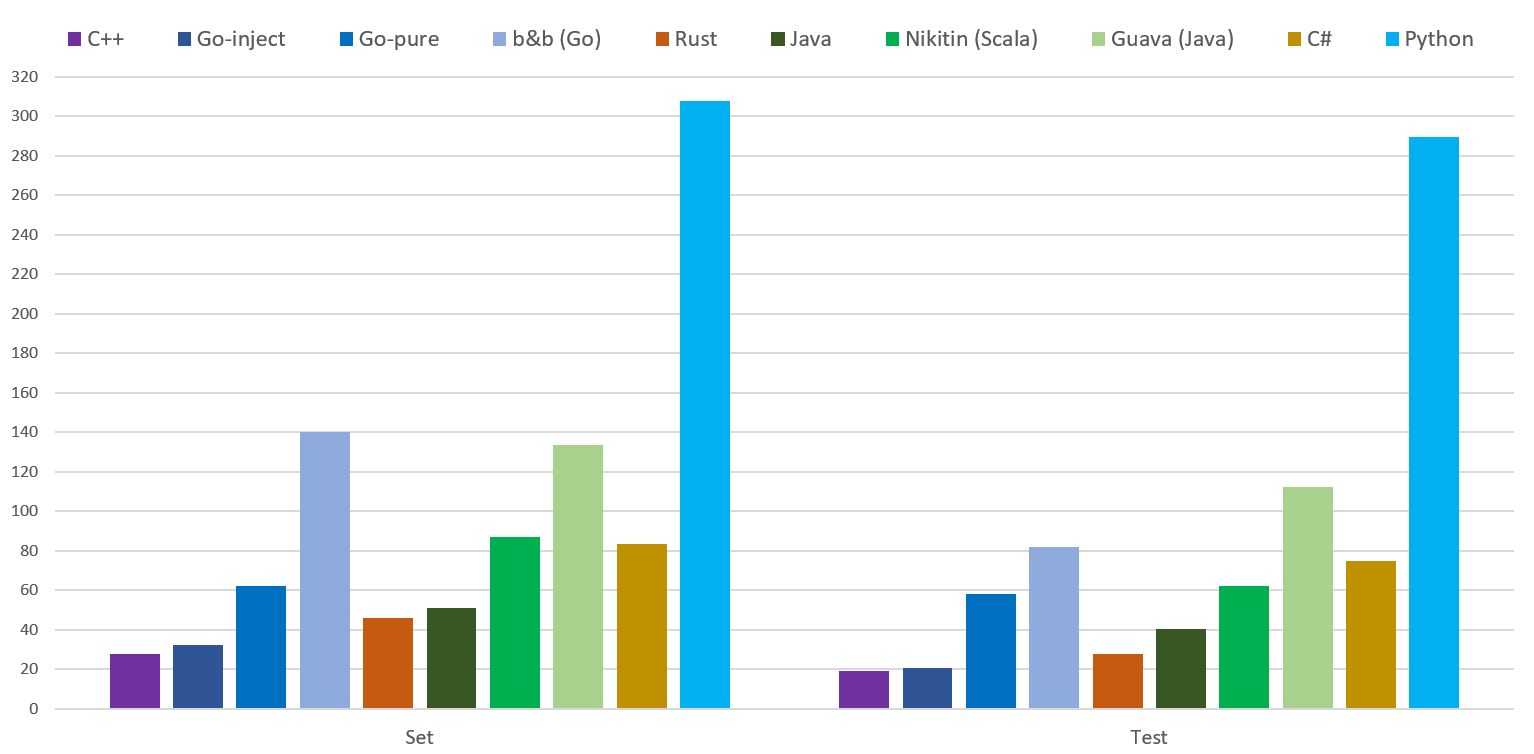
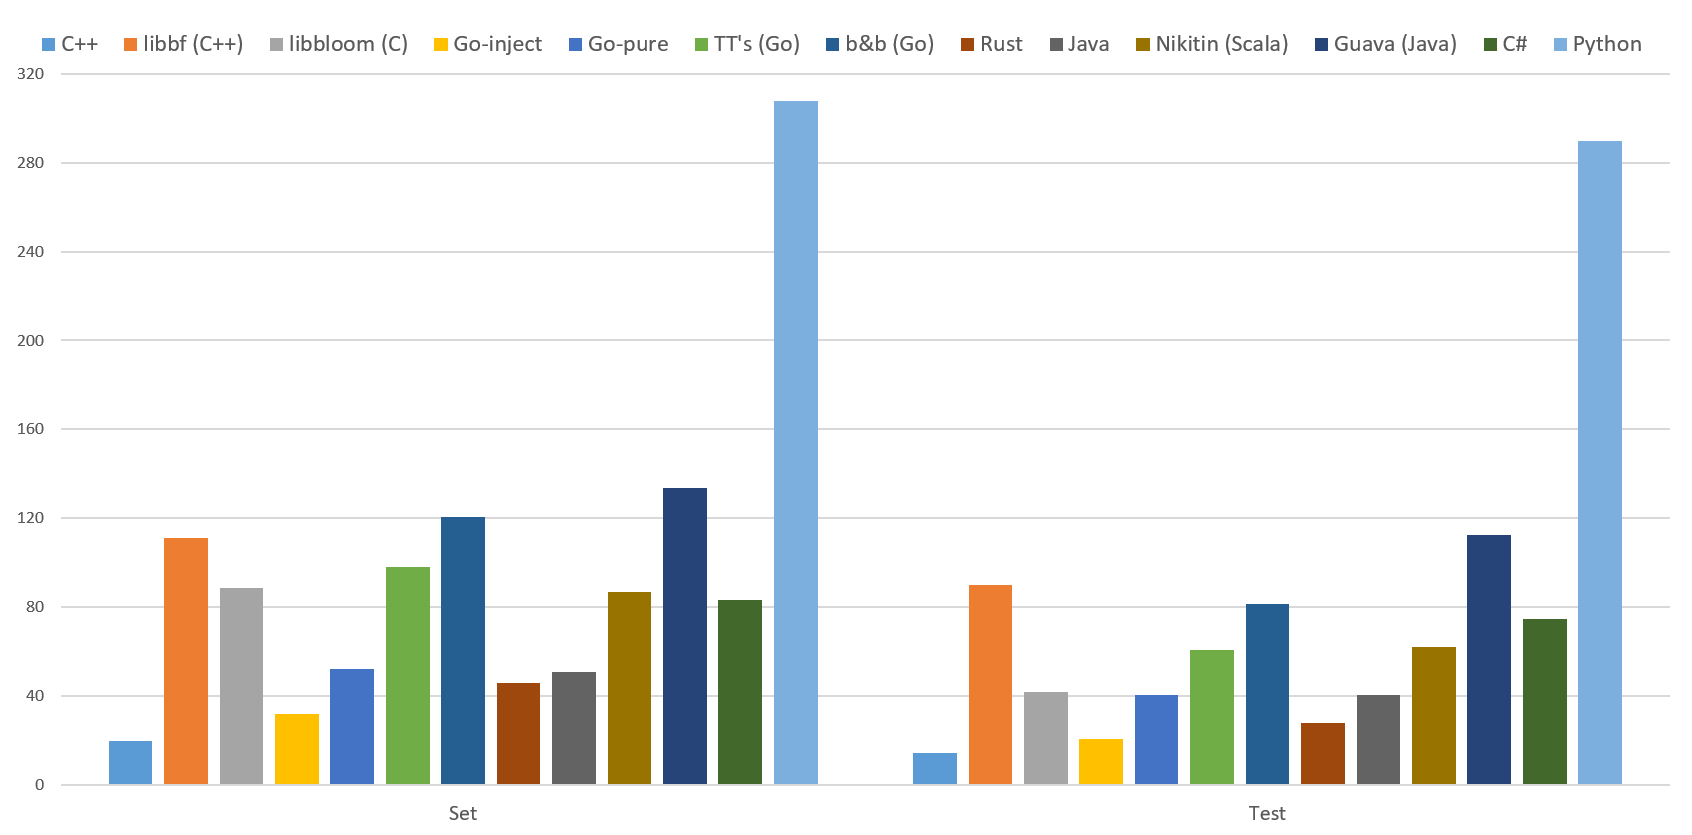
more benchmark result

diff --git a/README.md b/README.md
@@ -57,13 +57,15 @@ Test8  44.8ns ± 2%  18.4ns ± 7%  -58.86%  (p=0.000 n=19+20)
 
 We suggest that user should execute [go-inject.sh](pbf/go-inject.sh) to gnerate new injecting code before build. Clang, binutils and python are needed.
 
-[Benchmark](https://gist.github.com/PeterRK/b0df9e80caaaee1e9349e295cb435a67) shows it runs 3x time faster than another famous bloom filter implement [bits-and-blooms](https://github.com/bits-and-blooms/bloom):
+[Benchmark](https://gist.github.com/PeterRK/b0df9e80caaaee1e9349e295cb435a67) shows it runs 2x time faster than other famous bloom filter implements, [bits-and-blooms](https://github.com/bits-and-blooms/bloom) and [Tyler Treat's](https://github.com/tylertreat/BoomFilters):
 ```
 cpu: Intel(R) Core(TM) i7-10710U CPU @ 1.10GHz
-BenchmarkBitsAndBloomSet-6               1000000               140.0 ns/op
-BenchmarkBitsAndBloomTest-6              1000000                81.68 ns/op
-BenchmarkPageBloomFilterSet-6            1000000                32.12 ns/op
-BenchmarkPageBloomFilterTest-6           1000000                20.58 ns/op
+BenchmarkPageBloomFilterSet-6            1000000                32.70 ns/op
+BenchmarkPageBloomFilterTest-6           1000000                20.23 ns/op
+BenchmarkBitsAndBloomSet-6               1000000               120.5  ns/op
+BenchmarkBitsAndBloomTest-6              1000000                81.46 ns/op
+BenchmarkTylerTreatSet-6                 1000000                98.30 ns/op
+BenchmarkTylerTreatTest-6                1000000                60.69 ns/op
 ```
 
 ## Java Version

diff --git a/README-CN.md b/README-CN.md
@@ -57,13 +57,15 @@ Test8  44.8ns ± 2%  18.4ns ± 7%  -58.86%  (p=0.000 n=19+20)
 
 AMD64环境中注入版默认开启，编译前最好先执行[go-inject.sh](pbf/go-inject.sh)生成新的注入函数。注入函数生成脚本依赖clang和binutils，以及python，建议在Linux环境执行。
 
-[测评](https://gist.github.com/PeterRK/b0df9e80caaaee1e9349e295cb435a67) 表明本实现比知名的 [bits-and-blooms](https://github.com/bits-and-blooms/bloom)要快3倍：
+[测评](https://gist.github.com/PeterRK/b0df9e80caaaee1e9349e295cb435a67) 表明本实现比知名的 [bits-and-blooms](https://github.com/bits-and-blooms/bloom)和[Tyler Treat版](https://github.com/tylertreat/BoomFilters)要快2倍：
 ```
 cpu: Intel(R) Core(TM) i7-10710U CPU @ 1.10GHz
-BenchmarkBitsAndBloomSet-6               1000000               140.0 ns/op
-BenchmarkBitsAndBloomTest-6              1000000                81.68 ns/op
-BenchmarkPageBloomFilterSet-6            1000000                32.12 ns/op
-BenchmarkPageBloomFilterTest-6           1000000                20.58 ns/op
+BenchmarkPageBloomFilterSet-6            1000000                32.70 ns/op
+BenchmarkPageBloomFilterTest-6           1000000                20.23 ns/op
+BenchmarkBitsAndBloomSet-6               1000000               120.5  ns/op
+BenchmarkBitsAndBloomTest-6              1000000                81.46 ns/op
+BenchmarkTylerTreatSet-6                 1000000                98.30 ns/op
+BenchmarkTylerTreatTest-6                1000000                60.69 ns/op
 ```
 
 ## Java版
